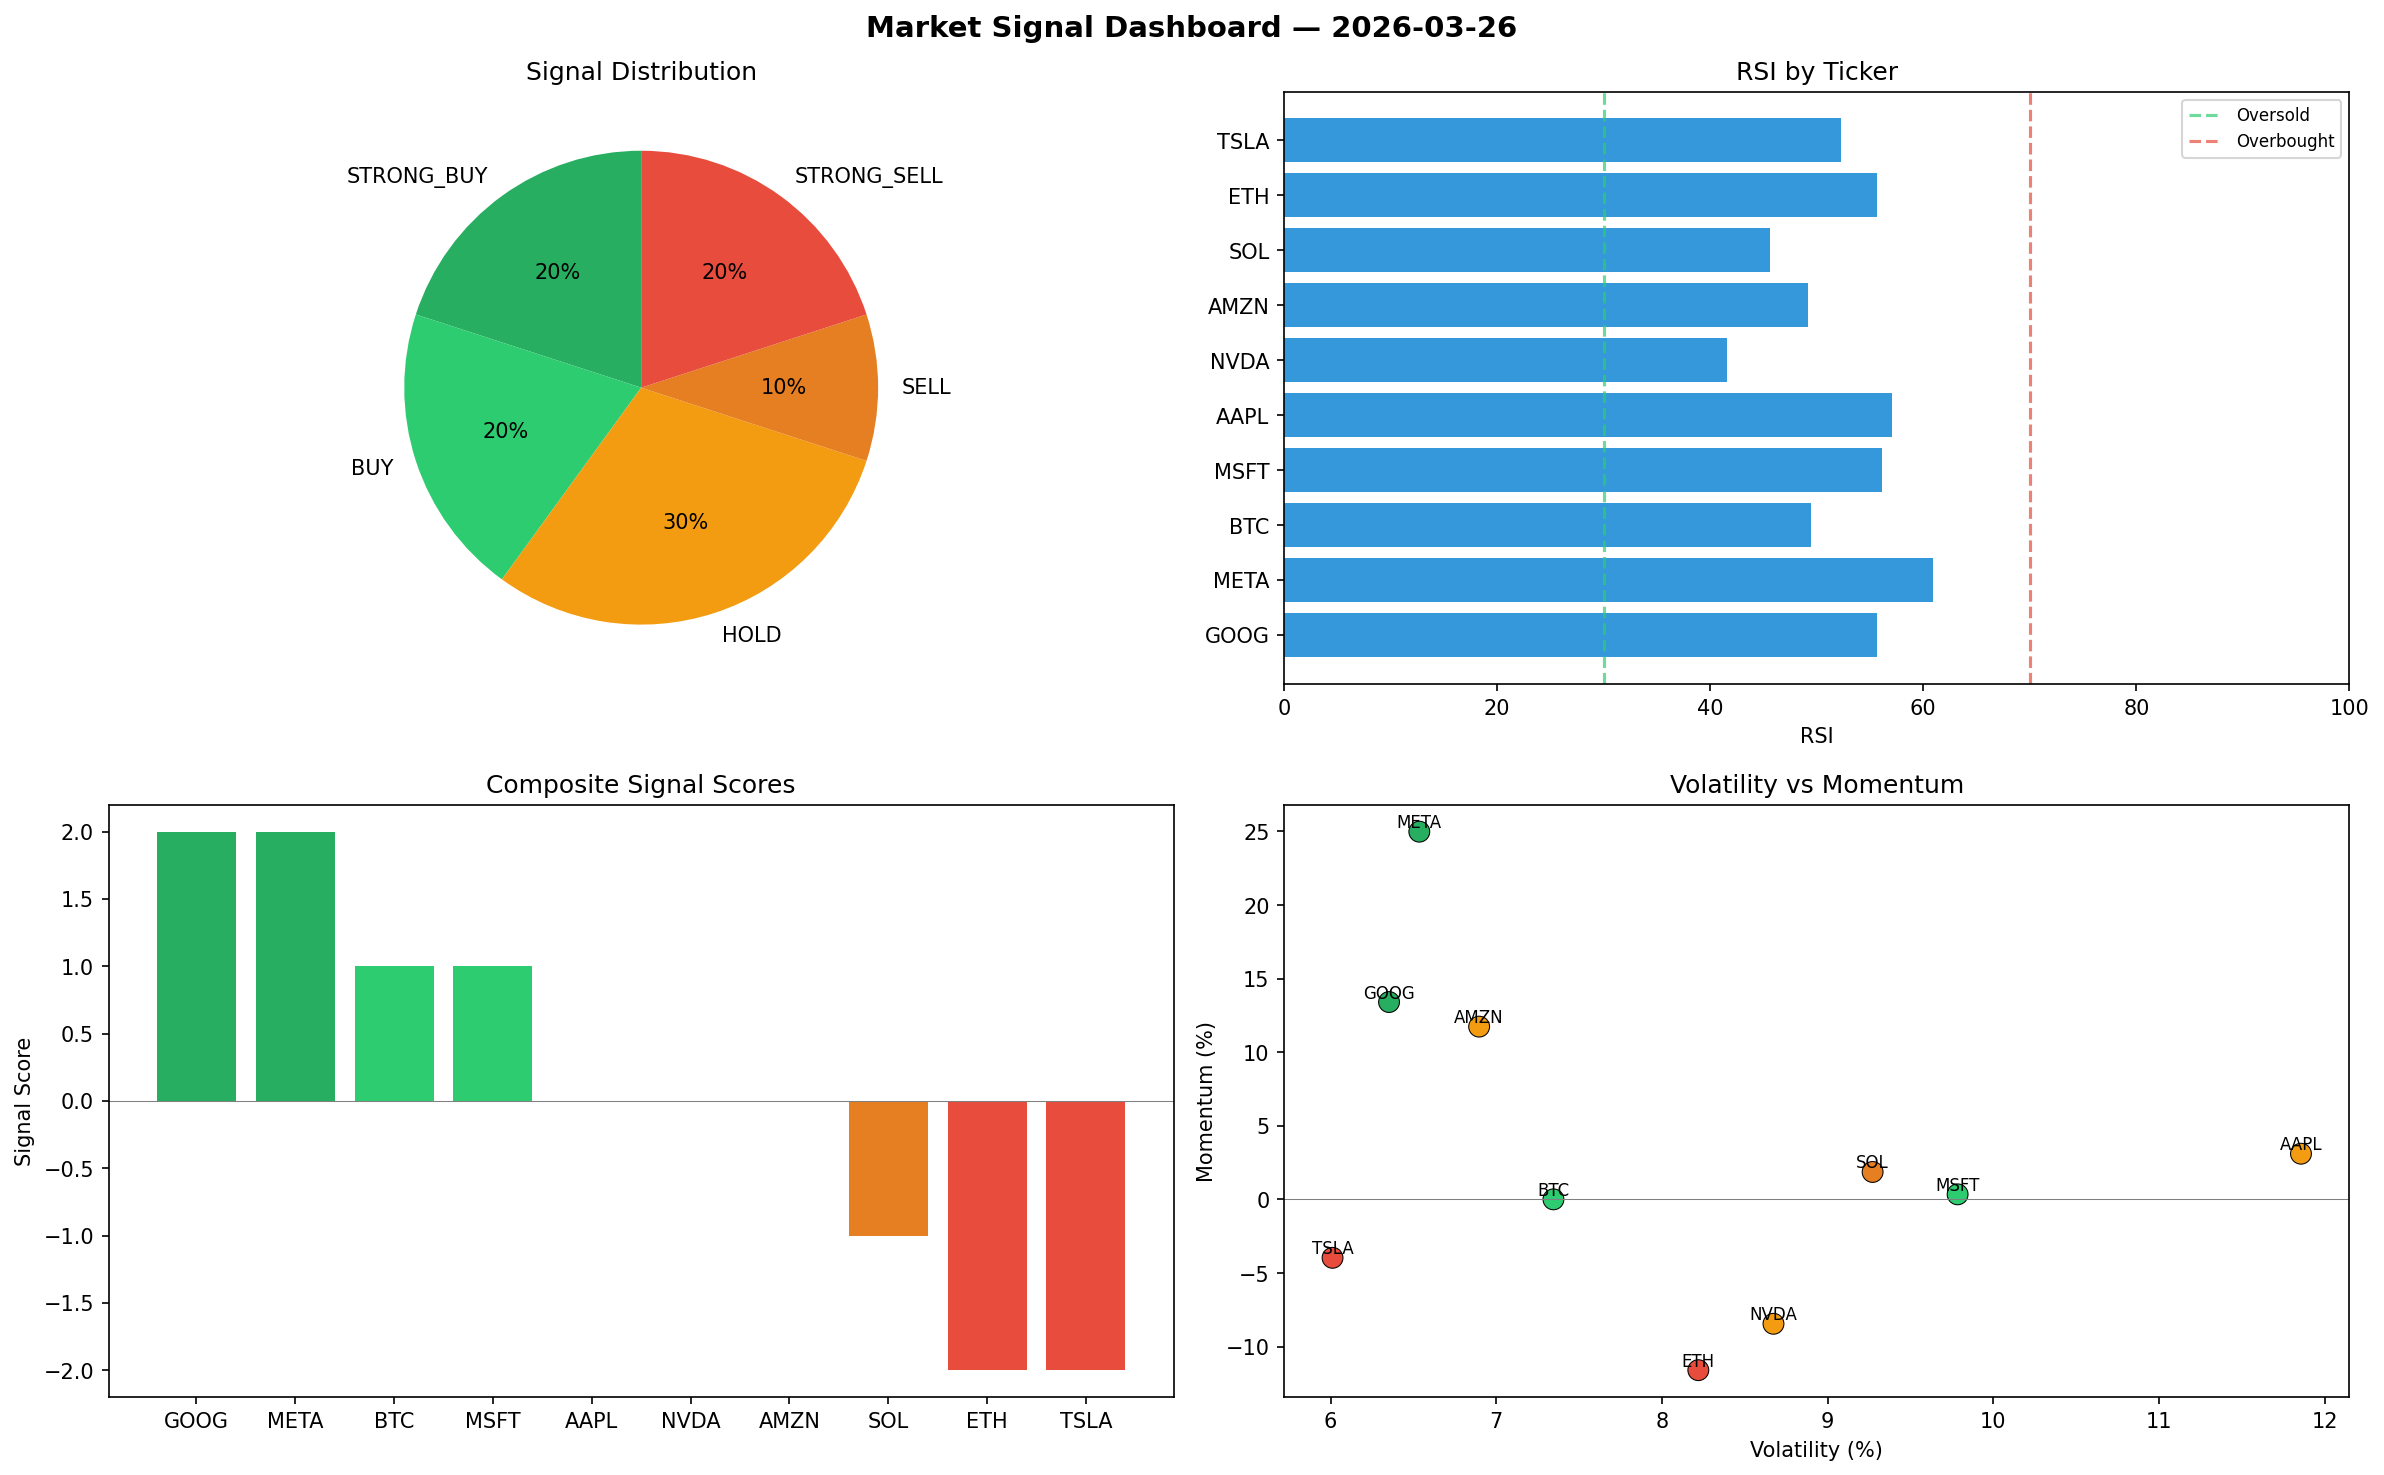
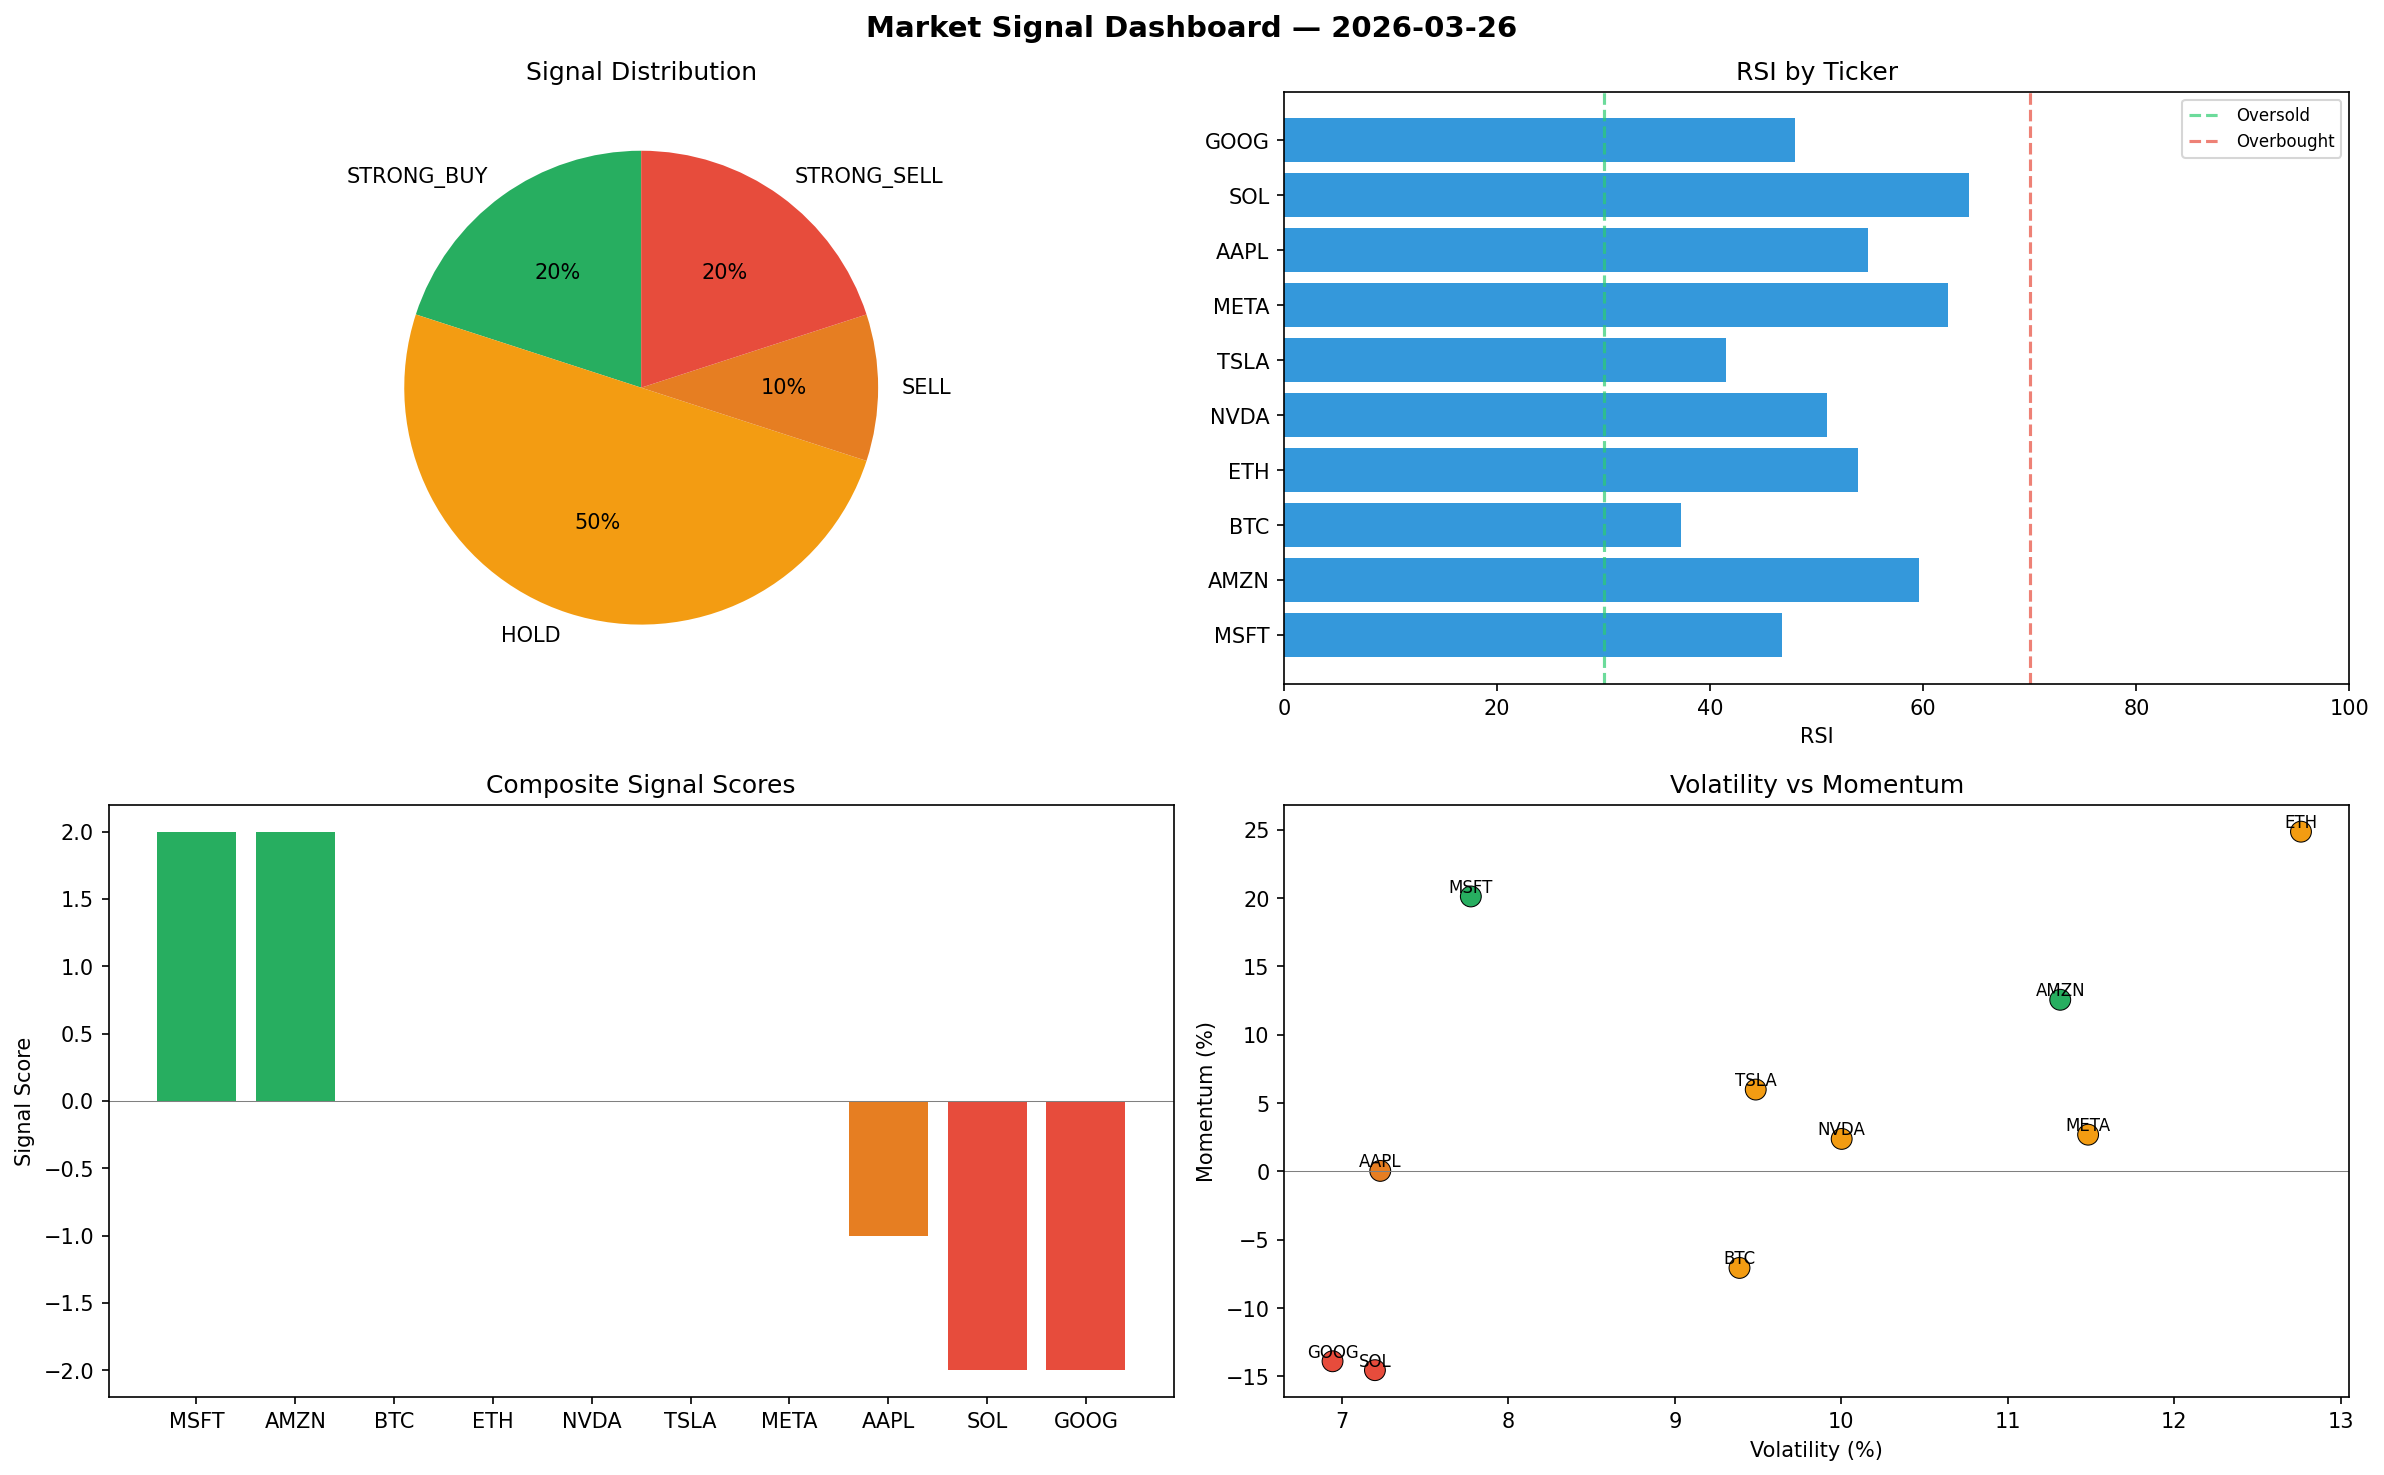
automated-bots: market signals 2026-03-26T20:55

diff --git a/logs/2026-03-26.md b/logs/2026-03-26.md
@@ -1,6 +1,6 @@
 # Market Signal Report — 2026-03-26
 
-**Run ID:** `19998ac41b` | **Buy:** 4 | **Sell:** 3 | **Hold:** 3
+**Run ID:** `3a804caed8` | **Buy:** 2 | **Sell:** 3 | **Hold:** 5
 
 ![Dashboard](2026-03-26_dashboard.png)
 
@@ -8,28 +8,28 @@
 
 | Ticker | Price | Signal | Score | RSI | Momentum | Confidence |
 |--------|-------|--------|-------|-----|----------|------------|
-| GOOG | $4935.43 | **STRONG_BUY** | 2 | 55.68 | 0.1341 | 0.5 |
-| META | $4586.23 | **STRONG_BUY** | 2 | 60.9 | 0.2498 | 0.5 |
-| BTC | $248.08 | **BUY** | 1 | 49.5 | 0.0001 | 0.25 |
-| MSFT | $654.28 | **BUY** | 1 | 56.09 | 0.0035 | 0.25 |
-| AAPL | $199.81 | **HOLD** | 0 | 57.04 | 0.0311 | 0.0 |
-| NVDA | $691.75 | **HOLD** | 0 | 41.54 | -0.0844 | 0.0 |
-| AMZN | $2576.17 | **HOLD** | 0 | 49.21 | 0.1174 | 0.0 |
-| SOL | $3944.85 | **SELL** | -1 | 45.59 | 0.0187 | 0.25 |
-| ETH | $3472.07 | **STRONG_SELL** | -2 | 55.67 | -0.1159 | 0.5 |
-| TSLA | $4658.54 | **STRONG_SELL** | -2 | 52.3 | -0.0396 | 0.5 |
+| MSFT | $2591.99 | **STRONG_BUY** | 2 | 46.76 | 0.2012 | 0.5 |
+| AMZN | $2099.69 | **STRONG_BUY** | 2 | 59.63 | 0.1256 | 0.5 |
+| BTC | $4795.61 | **HOLD** | 0 | 37.24 | -0.0706 | 0.0 |
+| ETH | $3376.6 | **HOLD** | 0 | 53.84 | 0.2486 | 0.0 |
+| NVDA | $4712.13 | **HOLD** | 0 | 50.97 | 0.0238 | 0.0 |
+| TSLA | $3216.84 | **HOLD** | 0 | 41.49 | 0.0599 | 0.0 |
+| META | $54.51 | **HOLD** | 0 | 62.3 | 0.0269 | 0.0 |
+| AAPL | $4404.1 | **SELL** | -1 | 54.81 | 0.0004 | 0.25 |
+| SOL | $3458.83 | **STRONG_SELL** | -2 | 64.26 | -0.1454 | 0.5 |
+| GOOG | $3739.8 | **STRONG_SELL** | -2 | 47.95 | -0.1389 | 0.5 |
 
 ## Delta vs Yesterday
 
 | Ticker | Today | Yesterday | Price Change | Signal Changed |
 |--------|-------|-----------|-------------|----------------|
-| GOOG | STRONG_BUY | STRONG_SELL | 📈 1362.35% | ⚠ YES |
-| META | STRONG_BUY | STRONG_BUY | 📈 84.3% | — |
-| BTC | BUY | STRONG_BUY | 📉 -94.67% | ⚠ YES |
-| MSFT | BUY | HOLD | 📈 79.43% | ⚠ YES |
-| AAPL | HOLD | STRONG_SELL | 📉 -88.0% | ⚠ YES |
-| NVDA | HOLD | STRONG_SELL | 📉 -85.45% | ⚠ YES |
-| AMZN | HOLD | STRONG_BUY | 📈 304.29% | ⚠ YES |
-| SOL | SELL | STRONG_BUY | 📈 218.55% | ⚠ YES |
-| ETH | STRONG_SELL | STRONG_SELL | 📈 54.78% | — |
-| TSLA | STRONG_SELL | STRONG_BUY | 📈 154.25% | ⚠ YES |
+| MSFT | STRONG_BUY | HOLD | 📈 610.84% | ⚠ YES |
+| AMZN | STRONG_BUY | STRONG_BUY | 📈 229.51% | — |
+| BTC | HOLD | STRONG_BUY | 📈 3.01% | ⚠ YES |
+| ETH | HOLD | STRONG_SELL | 📈 50.52% | ⚠ YES |
+| NVDA | HOLD | STRONG_SELL | 📉 -0.9% | ⚠ YES |
+| TSLA | HOLD | STRONG_BUY | 📈 75.57% | ⚠ YES |
+| META | HOLD | STRONG_BUY | 📉 -97.81% | ⚠ YES |
+| AAPL | SELL | STRONG_SELL | 📈 164.53% | ⚠ YES |
+| SOL | STRONG_SELL | STRONG_BUY | 📈 179.3% | ⚠ YES |
+| GOOG | STRONG_SELL | STRONG_SELL | 📈 1008.09% | — |
